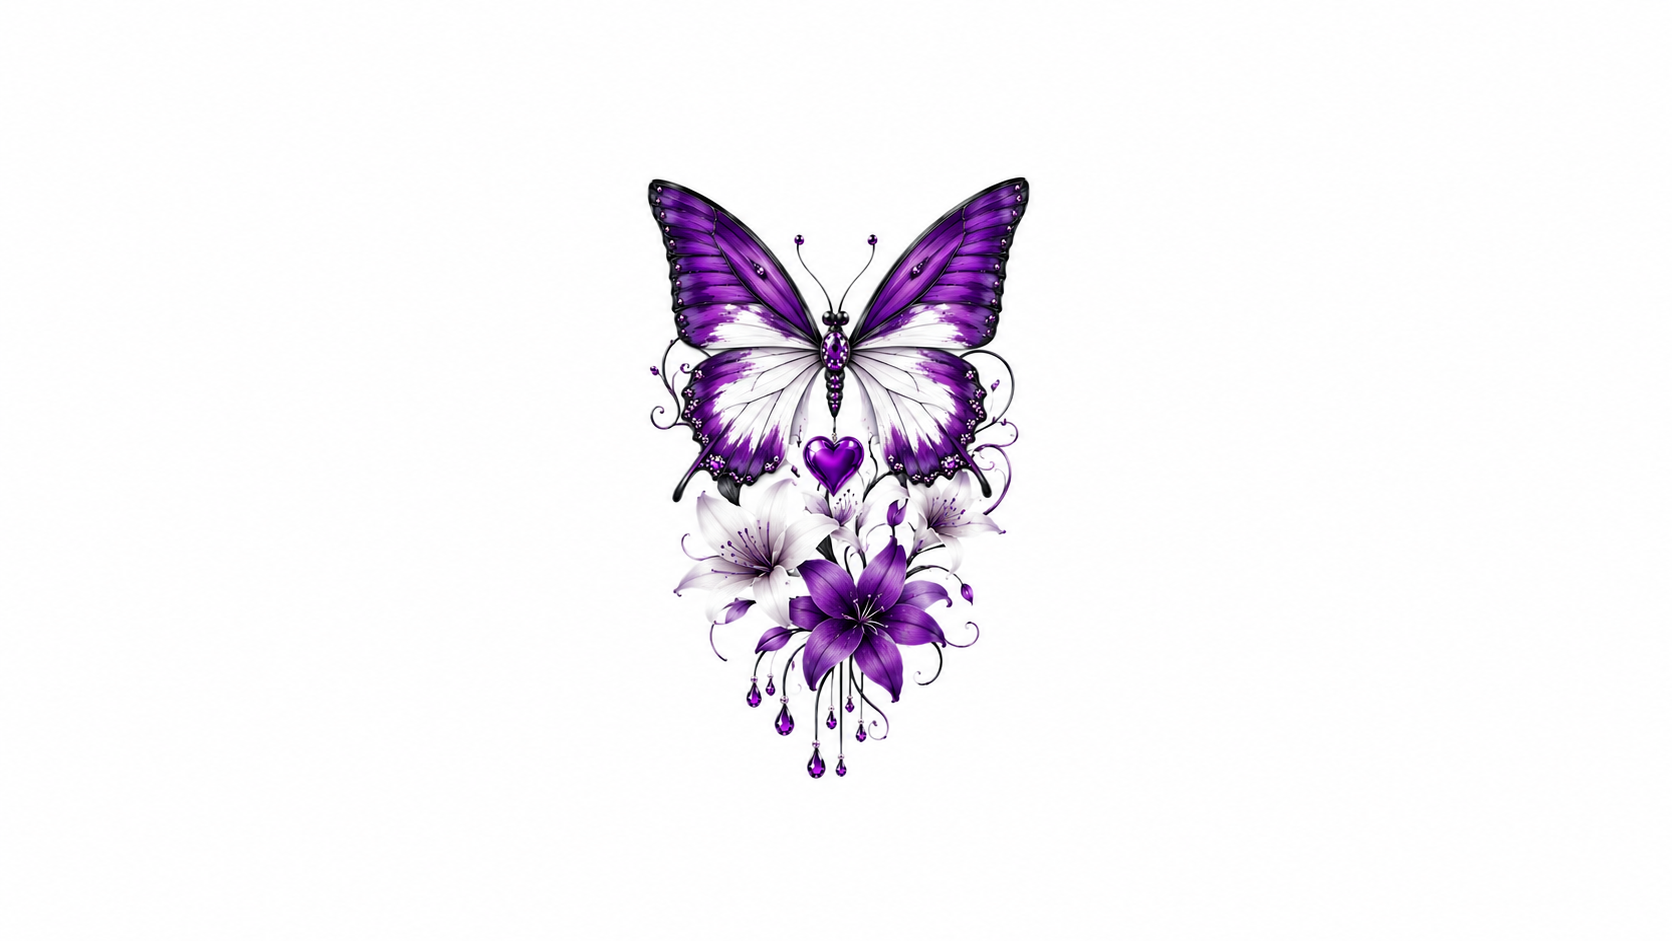
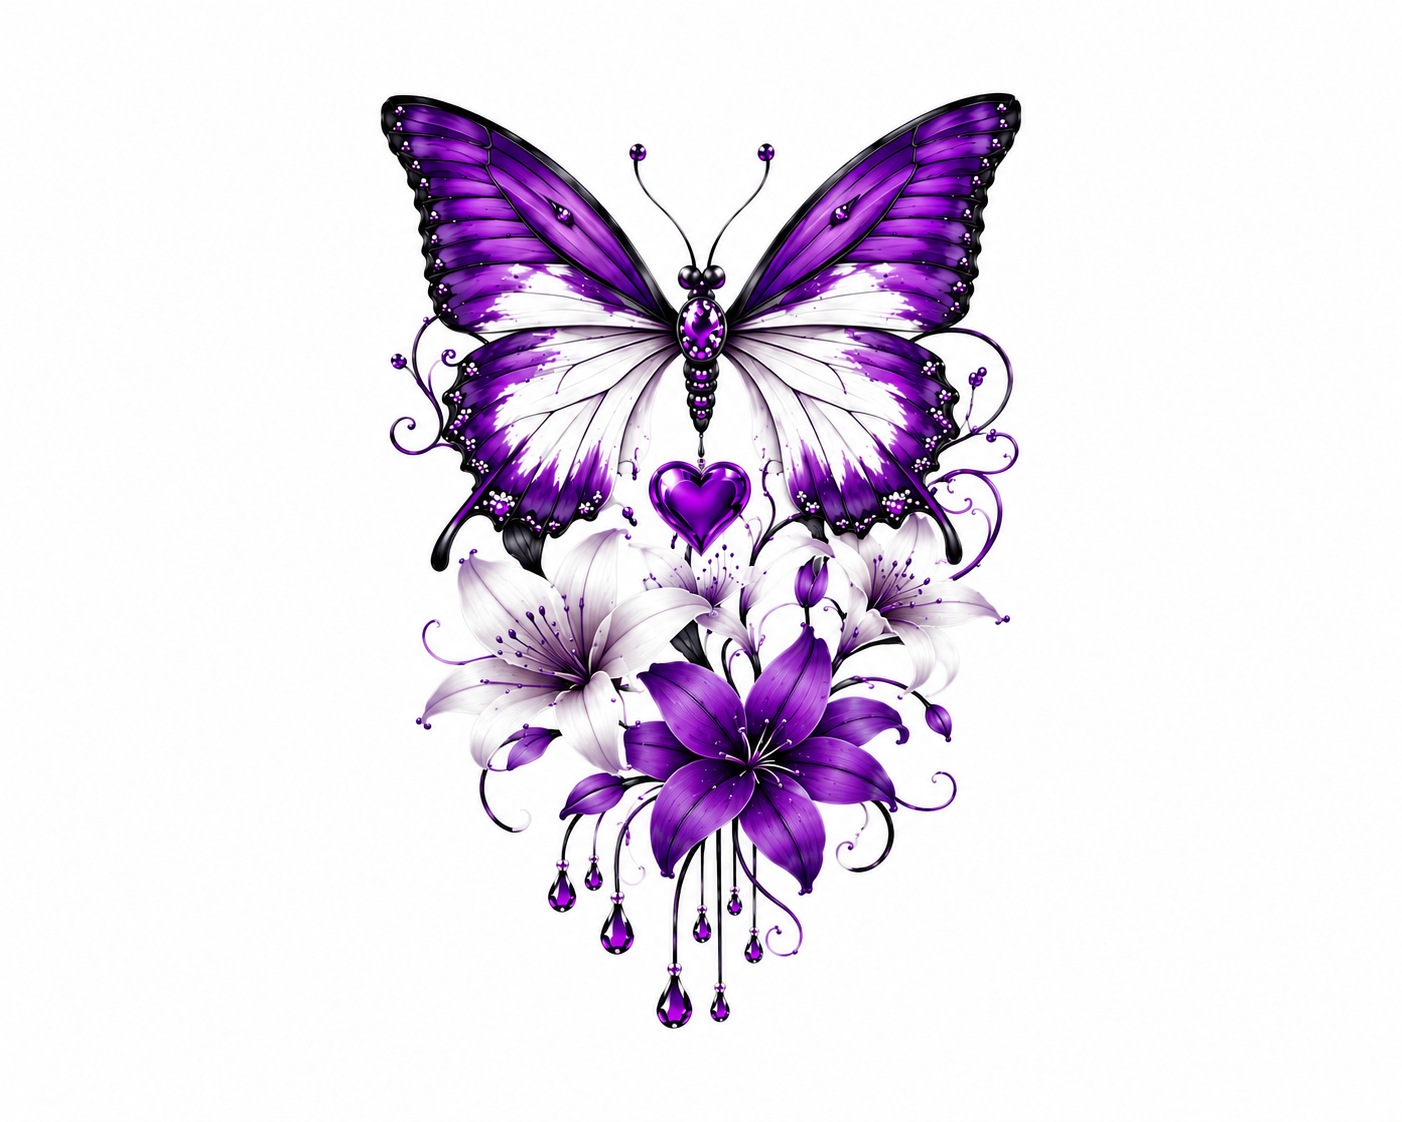
change

Changed region(s): [[0.2454, 0.0616, 0.7361, 0.9245], [0.4294, 0.1233, 0.4601, 0.1541]]

diff --git a/src/components/About/AboutSection.tsx b/src/components/About/AboutSection.tsx
@@ -31,13 +31,13 @@ export default function AboutSection() {
       {/* Left side: Text Content with back01.png */}
       <div className="w-full md:w-1/2 flex flex-col justify-center items-center py-20 px-6 md:px-12 relative z-10 text-white min-h-[50vh]">
         {/* Left background image */}
-        <div 
+        <div
           className="absolute inset-0 w-full h-full object-cover z-[-2]"
           style={{ backgroundImage: 'url(/images/BackgroundImages/back01.png)', backgroundSize: 'cover', backgroundPosition: 'center' }}
         />
         {/* Dark overlay */}
         <div className="absolute inset-0 bg-black/60 z-[-1]" />
-        
+
         <motion.h3
           custom={0}
           initial="hidden"
@@ -176,9 +176,9 @@ export default function AboutSection() {
           className="w-full h-full absolute inset-0"
         >
           {/* eslint-disable-next-line @next/next/no-img-element */}
-          <img 
-            src="/images/BackgroundImages/back03.png" 
-            alt="Wedding Background" 
+          <img
+            src="/images/BackgroundImages/back03.png"
+            alt="Wedding Background"
             className="w-full h-full object-cover"
           />
         </motion.div>